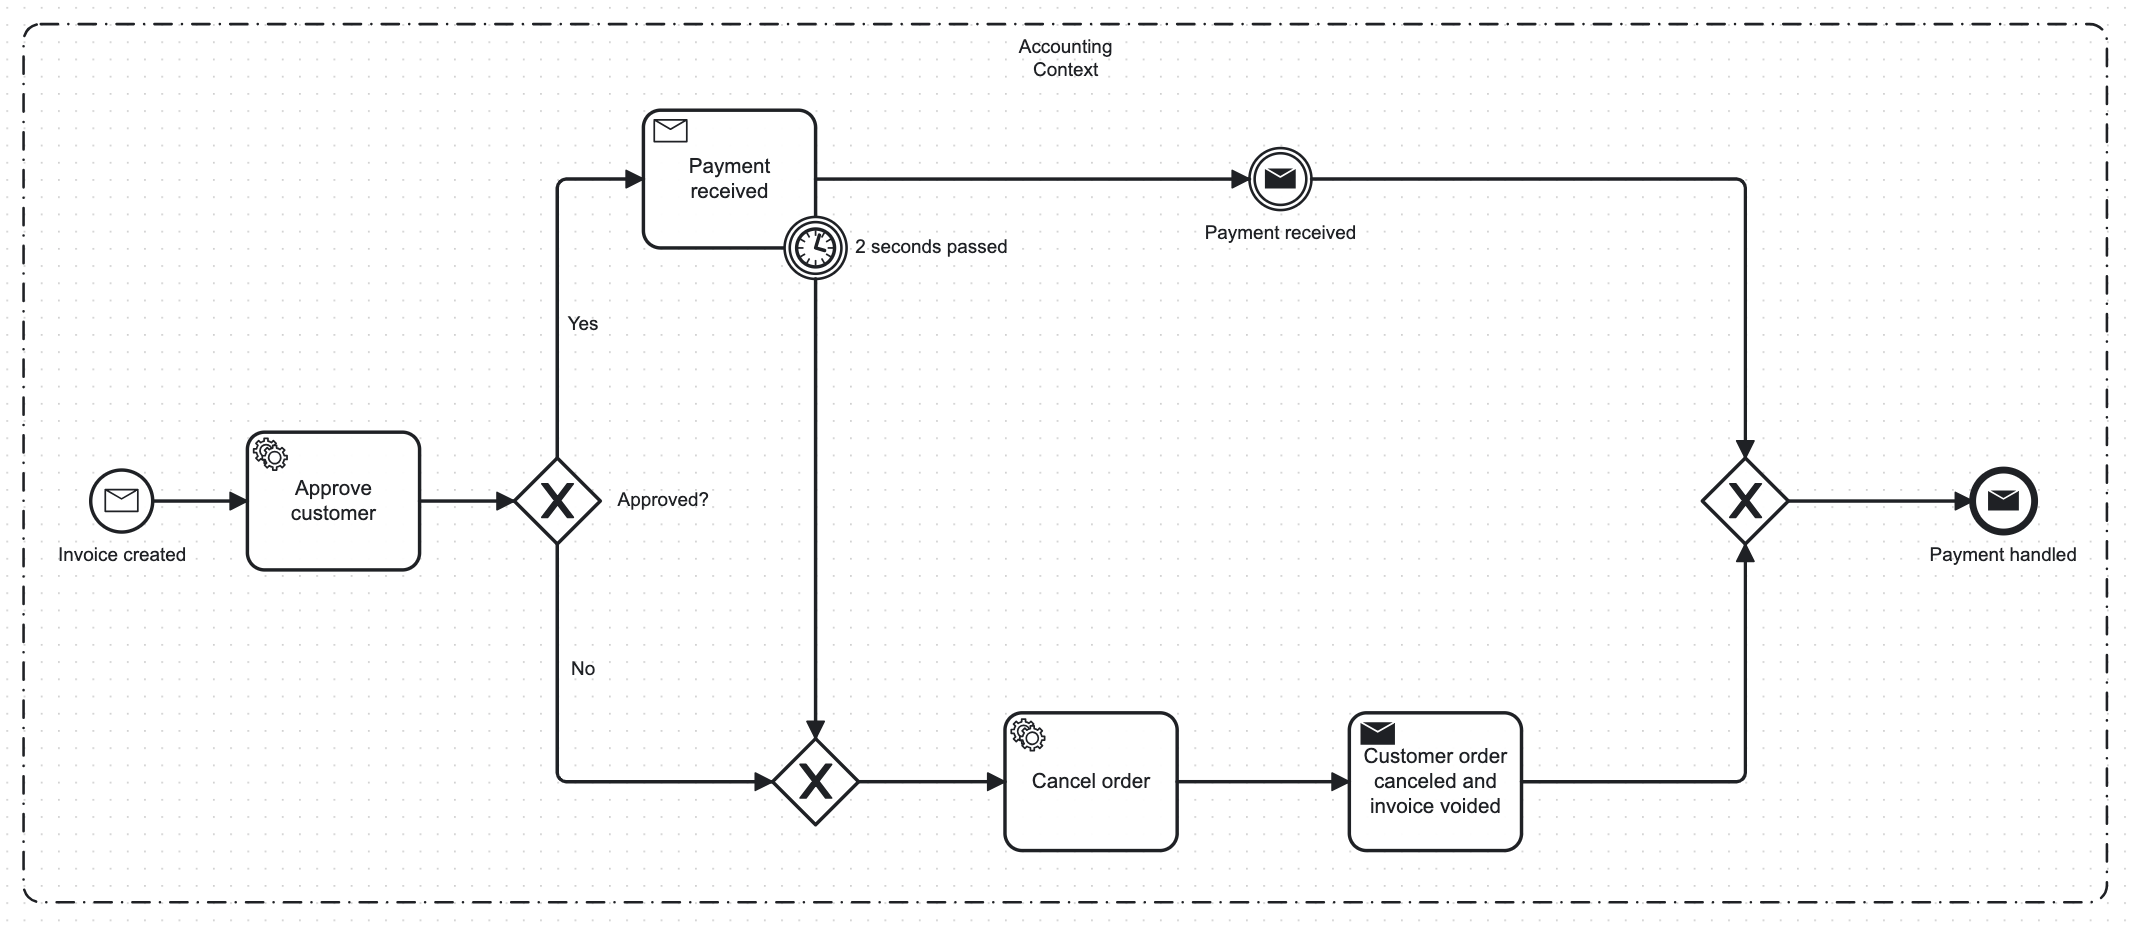
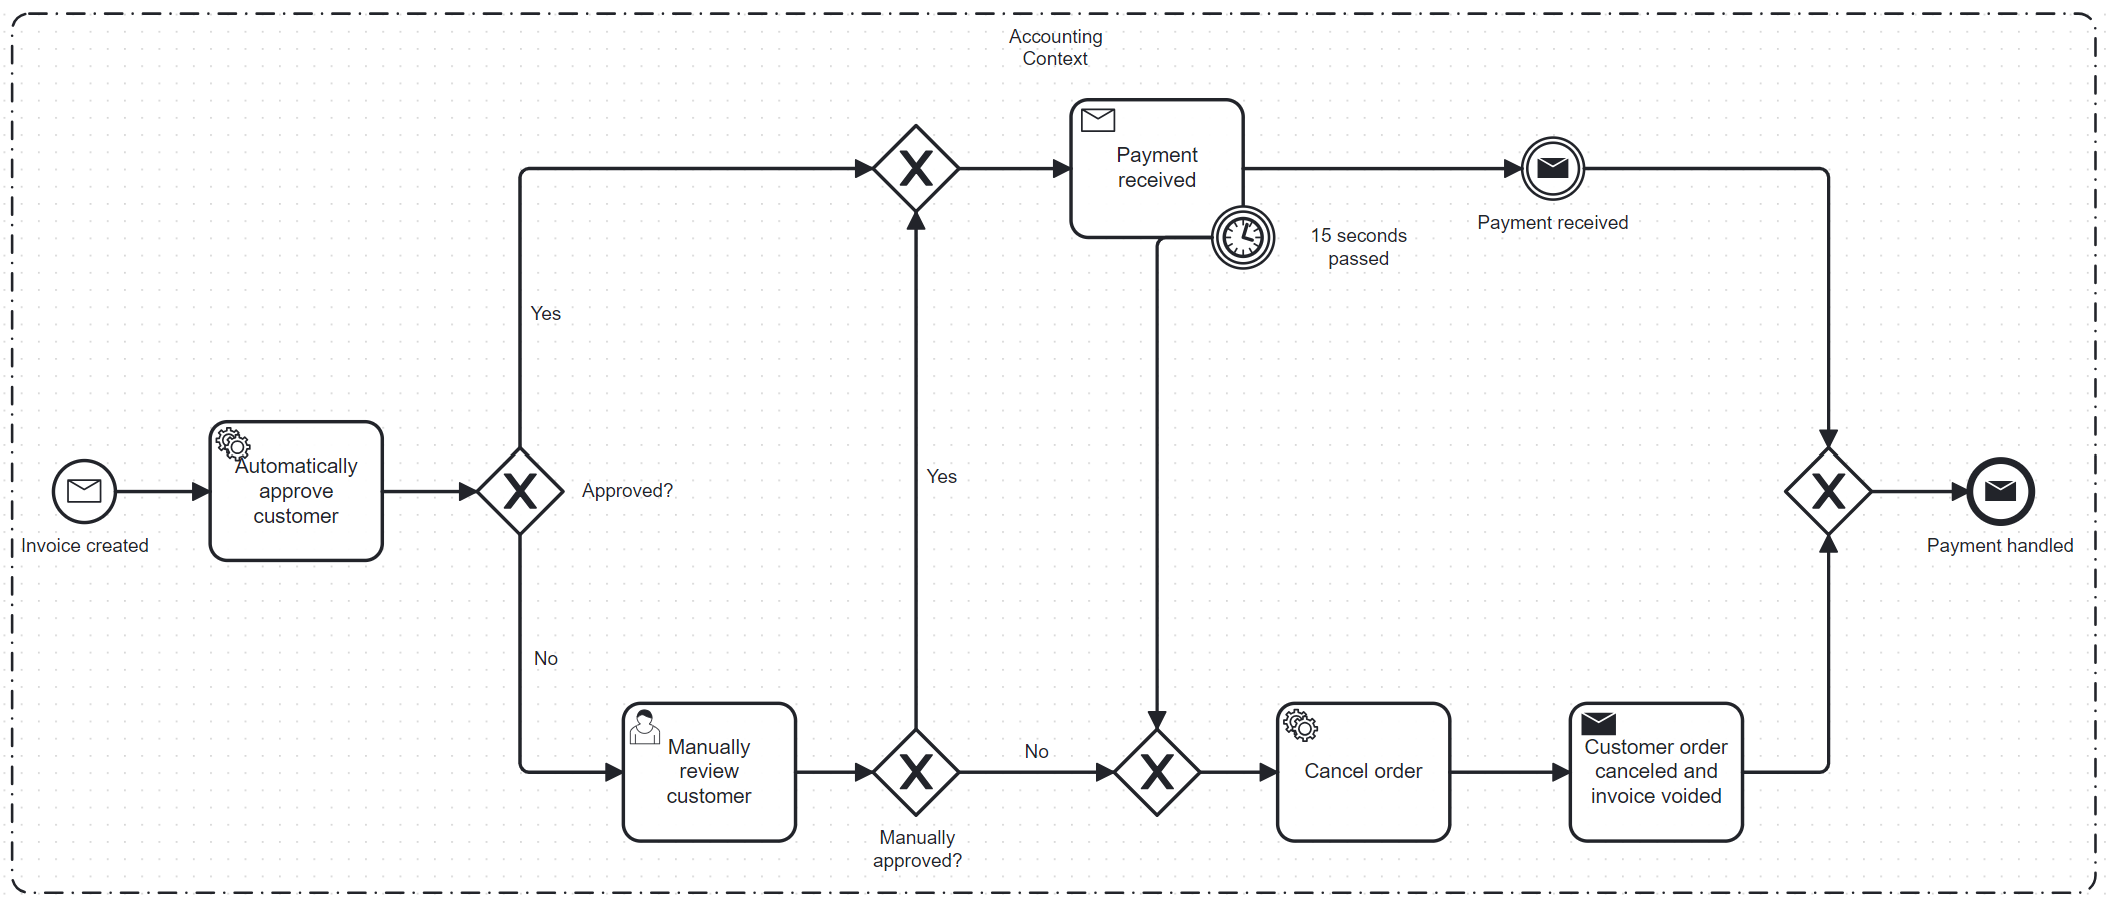
Update Readme

diff --git a/README.md b/README.md
@@ -21,7 +21,7 @@ We explicitly (see ADR) decided not to use Zeebe, the new process engine of Camu
 
 In lecture 6, [Sagas](https://www.youtube.com/watch?v=0UTOLRTwOX0) and "Stateful Resilience Patterns" were introduced. We use the "Epic Saga" (traditional saga pattern) in our project. The Saga pattern is a way to manage transactions that span multiple services. A saga is a sequence of local transactions. Each local transaction updates the database and publishes a message or event to trigger the next local transaction in the saga. If a local transaction fails because it violates a business rule then the saga executes a series of compensating transactions that undo the changes that were made by the preceding local transactions. The saga pattern is used in the booking process. If the customer decides to pay by card, the booking is directly confirmed. If the customer decides to pay by invoice, the booking is confirmed after the bank payment has been received. If the bank payment is not received within 30 days, the booking is cancelled. The saga pattern is used to manage the transactions of the booking process.
 
-As resilience pattern, human intervention is used. In the accounting subprocess, a blacklist with bad customers is used. If a customer is on the blacklist, the booking is cancelled. The blacklist is maintained by the accounting department. The accounting department is notified by the accounting service if a customer is on the blacklist. The accounting department can then decide if the customer should be removed from the blacklist or not. The accounting department can also add a customer to the blacklist. The accounting department is a human actor in the process. The accounting department is notified by the accounting service via email. The accounting department can then decide if the customer should be removed from the blacklist or not. The accounting department can also add a customer to the blacklist. The accounting department is a human actor in the process.
+As resilience pattern, human intervention is used. In the accounting process, we best saw fit that, after an automatic rejection of a customer, our accounts have the final word on rejecting or approving a customer. Our software calls an external relational database to see any customer that was put on the blacklist, if we find that a customer has been rejected in the past, we will mark him for human review. To not lose out on a possible sale due to the automatic rejection, this manual review step serves as a fallback, we provide the customer name and his booking to a human agent, who has last call on wether to reject a booking or if we take the chance and allow a booking. Even if we allow a rejected booking manually, the booking gets automatically cancelled if we do not receive the payment within 30 days. 
 
 
 
